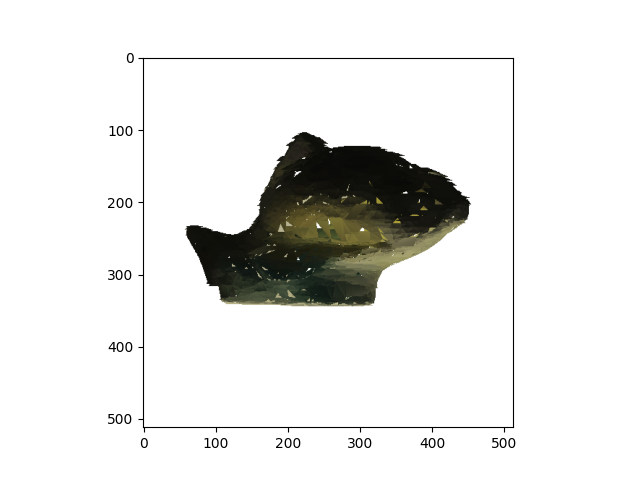
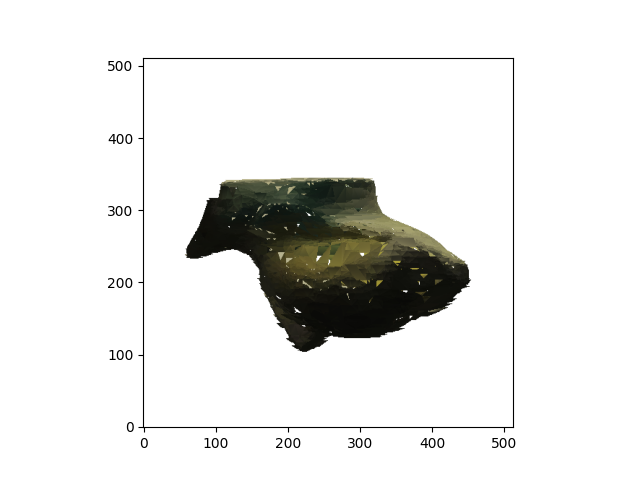
Sadness

diff --git a/test.py b/test.py
@@ -1,0 +1,36 @@
+import matplotlib.pyplot
+import numpy as np
+M = 512
+N = 512
+img = np.ones((M, N, 3))
+activ_peaks = []
+a = [300, 250]
+b = [320, 250]
+c = [310, 270]
+activ_peaks.append(a)
+activ_peaks.append(b)
+peaks_y_max = []
+peaks_y_max.append(c)
+ymin = 250
+ymax = 270
+xmin = 300
+xmax = 320
+color = [0.7, 0.7, 0.7]
+
+# sort to left and right lower peaks
+activ_peaks.sort(key=lambda ap: ap[0])
+# compute the 2 slopes of the acmes (inverse slopes to get rid of division by zero)
+left_slope = (peaks_y_max[0][0] - activ_peaks[0][0])/(ymax - ymin)
+right_slope = (activ_peaks[1][0] - peaks_y_max[0][0])/(ymin - ymax)
+# paint for each point
+for y in range(ymin, ymax + 1):
+    for x in range(int(xmin), int(xmax + 1)):
+        img[y][x] = color
+    xmin = (y + 1 - ymin) * left_slope + activ_peaks[0][0]
+    xmax = (y + 1 - ymin) * right_slope + activ_peaks[1][0]
+    print(f"xmin= {xmin}")
+    print(f"xmax= {xmax}")
+
+
+matplotlib.pyplot.imshow(img, origin='lower')
+matplotlib.pyplot.show()

diff --git a/demo_gouraud.py b/demo_gouraud.py
@@ -11,6 +11,6 @@ depth = data[()]['depth']
 
 # render the image
 image = render.render(verts2d, faces, vcolors, depth, 'gouraud')
-matplotlib.pyplot.imshow(image)
+matplotlib.pyplot.imshow(image, origin='lower')
 matplotlib.pyplot.savefig('gouraud.png')
 matplotlib.pyplot.show()
